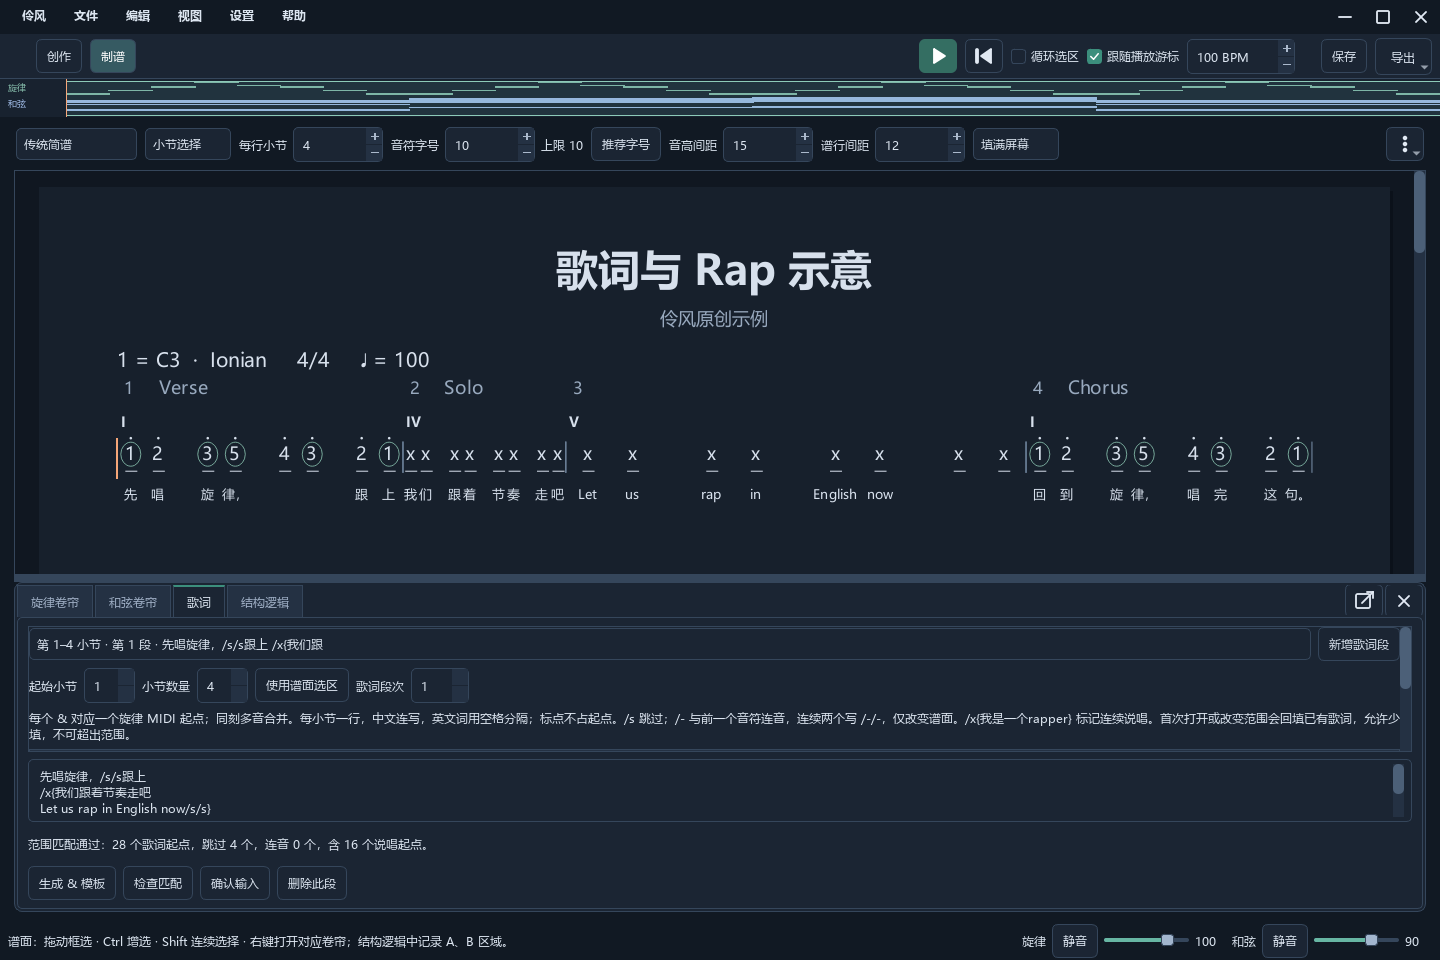
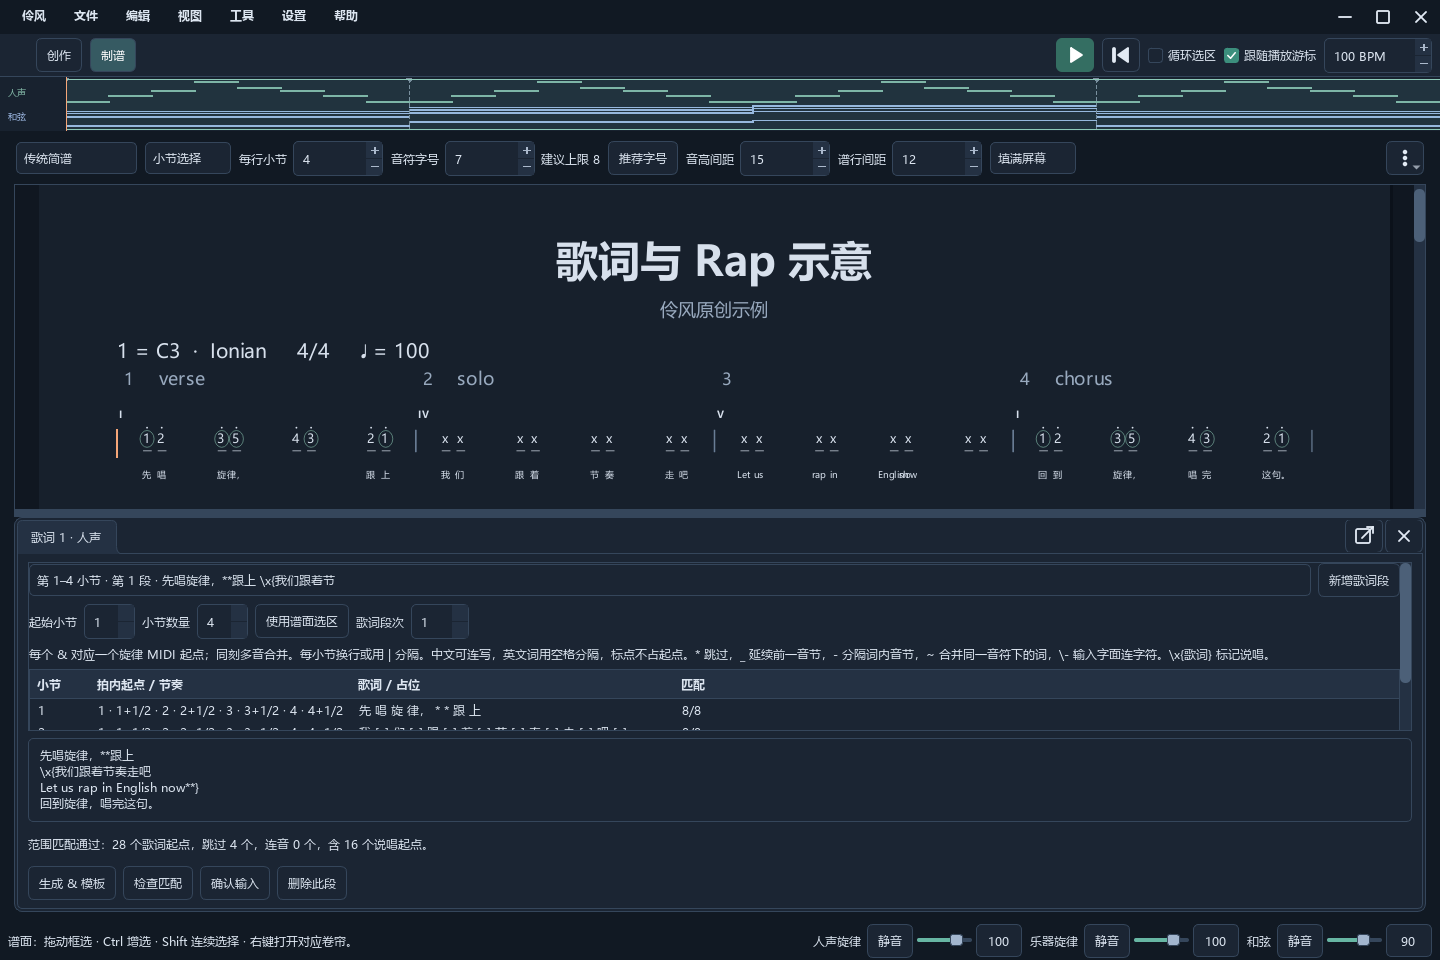
Release Lingfeng 0.60.10 with refreshed interface screenshots

diff --git a/scripts/release_policy.py b/scripts/release_policy.py
@@ -25,7 +25,7 @@ PUBLIC_DOCS=(
 )
 PUBLIC_SCREENSHOTS=(
     'docs/screenshots/compose.png','docs/screenshots/chord-degree-shortcuts.png','docs/screenshots/spatial-score.png',
-    'docs/screenshots/lyrics-rap.png','docs/screenshots/progression-library.png',
+    'docs/screenshots/lyrics-rap.png','docs/screenshots/measure-selection.png',
 )
 PUBLIC_SCRIPTS=(
     'scripts/audit_text.py','scripts/build_synth_packs.py','scripts/build_piano_packs.py','scripts/collect_qt_notices.py',

diff --git a/CHANGELOG.md b/CHANGELOG.md
@@ -6,6 +6,19 @@ Versions with generated release archives only; local work is recorded in `CHANGE
 
 ## 0.6 系列 / 0.6 family
 
+### 0.60.10 — 小节选区与数字和弦 / Measure selection and chord shortcuts
+
+日期 / Date: 2026-11-10。
+
+- 小节右键可选中所在段落的所有小节。对已选小节，可批量选取指定卷帘的音符或起点落在其中的和弦块。
+- 和弦轨单选或多选后，按 `1`–`7` 按各块起点的调性输入调内和弦。每个数字键可独立设置为三和弦或七和弦，默认为三和弦。
+- 钢琴卷帘的纵向滚轮速度默认为原速度的两倍。可在「设置 → 卷帘显示 → 卷帘滚轮速度」中调整，停靠和浮动卷帘共用设置。
+- 更新 13 个示例工程，全部可用当前版本打开和制谱。示例人声轨使用 Greg Sullivan CP80 电钢琴，乐器与和弦轨使用 PFSynth 物理建模钢琴。
+
+Select all measures in a section from the bar menu, then select notes from a piano roll or chord regions starting in the selected bars. With one or more chord regions selected, press `1`–`7` to enter a diatonic chord in the key at each region’s start. Each digit can be set to a triad or seventh chord. Vertical wheel scrolling in the piano rolls defaults to twice the previous speed and can be adjusted in Settings.
+
+All 13 example projects open in the current version and can display their scores. The examples use Greg Sullivan CP80 electric piano for the vocal track and PFSynth modeled piano for the instrumental and chord tracks.
+
 ### 0.60.9 — 音源与和弦编辑 / Sound sources and chord editing
 
 日期 / Date: 2026-11-08。

diff --git a/README.md b/README.md
@@ -41,6 +41,8 @@ In a separately configured ComfyUI setup, connect the exported ABC to `score_abc
 
 ## 精选截图 / Featured
 
+以下均为 0.60.10 的实际界面。 / All screenshots show the 0.60.10 interface.
+
 <table>
   <tr>
     <td width="50%"><strong>旋律与和弦编辑 / Piano rolls</strong><br><a href="docs/screenshots/compose.png"><img src="docs/screenshots/compose.png" alt="0.60.10 旋律与和弦双卷帘 / Melody and chord piano rolls in 0.60.10" width="640"></a></td>
@@ -48,7 +50,7 @@ In a separately configured ComfyUI setup, connect the exported ABC to `score_abc
   </tr>
   <tr>
     <td width="50%"><strong>歌词与 Rap / Lyrics and rap</strong><br><a href="docs/screenshots/lyrics-rap.png"><img src="docs/screenshots/lyrics-rap.png" alt="传统简谱中的歌词与Rap排版及编辑面板" width="640"></a></td>
-    <td width="50%"><strong>和弦进行库 / Chord progressions</strong><br><a href="docs/screenshots/progression-library.png"><img src="docs/screenshots/progression-library.png" alt="内置和弦进行库的罗马数字、实际和弦及根音序列检索" width="640"></a></td>
+    <td width="50%"><strong>小节批量选择 / Measure selection</strong><br><a href="docs/screenshots/measure-selection.png"><img src="docs/screenshots/measure-selection.png" alt="选中段落中的小节，再批量选取卷帘音符或和弦块 / Select piano-roll notes or chord regions across a section’s measures" width="640"></a></td>
   </tr>
 </table>
 
